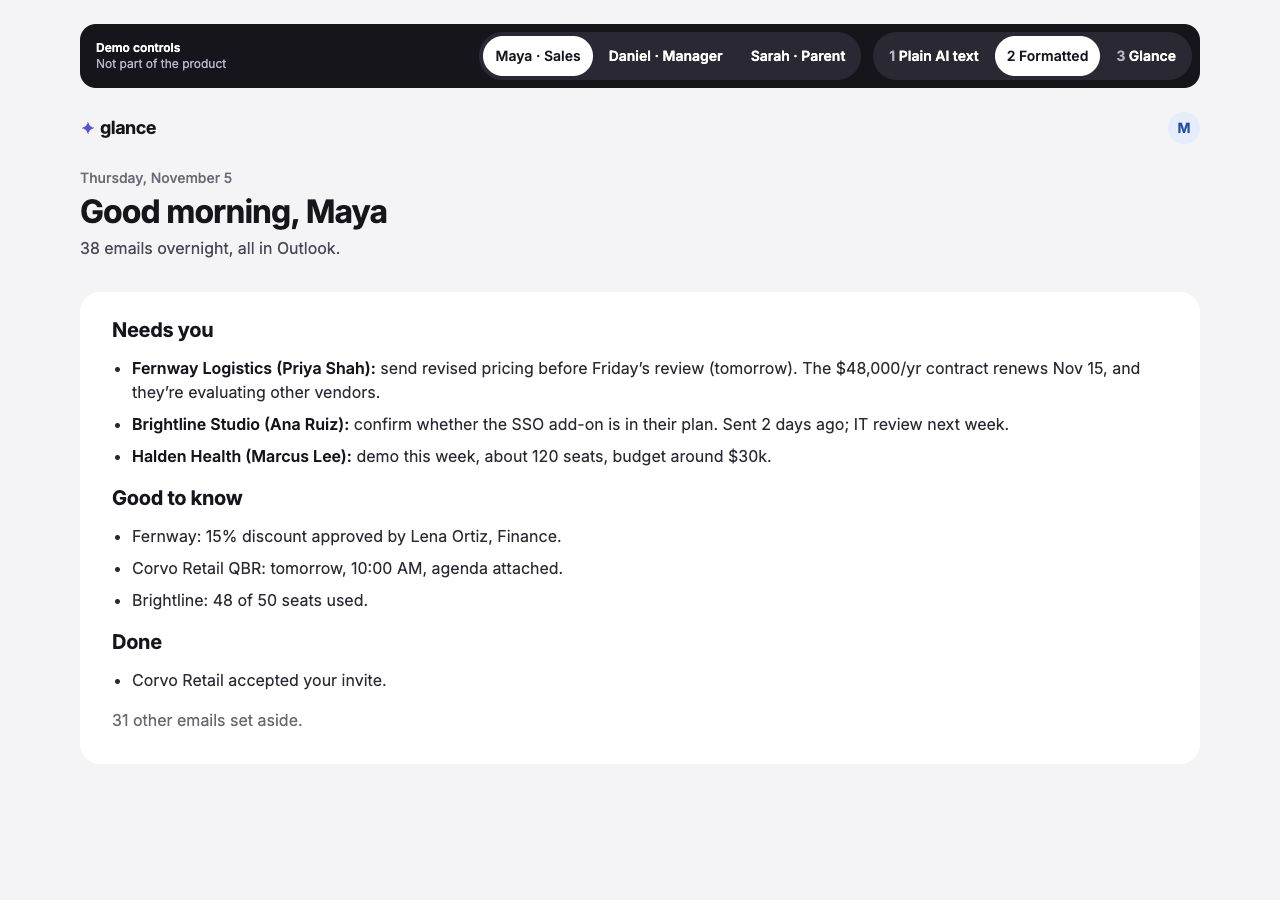
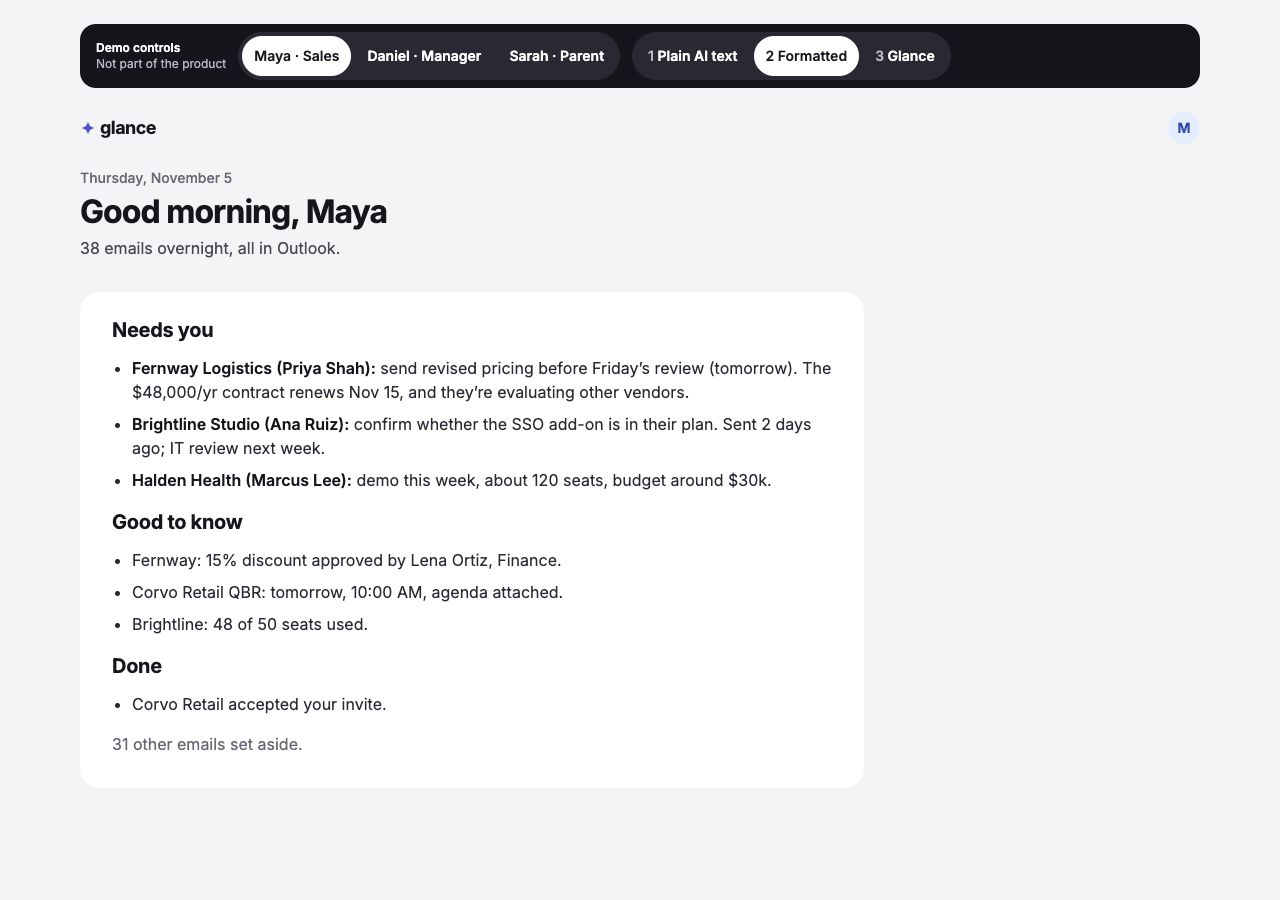
fix: apply approved demo states and responsive labels

diff --git a/src/demo/DemoBar.tsx b/src/demo/DemoBar.tsx
@@ -2,6 +2,7 @@ import { useId, useRef, useState, type ReactNode } from 'react';
 import type { PersonaId } from '../data';
 import { useDesktopLayout } from '../design-system/components/useDesktopLayout';
 import type { DemoLevel } from './DemoApp';
+import { usePhoneLabels } from './usePhoneLabels';
 import styles from './DemoBar.module.css';
 
 interface DemoBarProps {
@@ -12,14 +13,14 @@ interface DemoBarProps {
   extraControls?: ReactNode;
 }
 const personas = [
-  { id: 'maya', label: 'Maya · Sales' },
-  { id: 'daniel', label: 'Daniel · Manager' },
-  { id: 'sarah', label: 'Sarah · Parent' },
+  { id: 'maya', label: 'Maya · Sales', shortLabel: 'Maya' },
+  { id: 'daniel', label: 'Daniel · Manager', shortLabel: 'Daniel' },
+  { id: 'sarah', label: 'Sarah · Parent', shortLabel: 'Sarah' },
 ] as const;
 const levels = [
-  { value: 1, label: 'Plain AI text' },
-  { value: 2, label: 'Formatted' },
-  { value: 3, label: 'Glance' },
+  { value: 1, label: 'Plain AI text', shortLabel: 'Plain' },
+  { value: 2, label: 'Formatted', shortLabel: 'Formatted' },
+  { value: 3, label: 'Glance', shortLabel: 'Glance' },
 ] as const;
 
 export function DemoBar({
@@ -30,13 +31,18 @@ export function DemoBar({
   extraControls,
 }: DemoBarProps) {
   const desktop = useDesktopLayout();
+  const phone = usePhoneLabels();
   const [expanded, setExpanded] = useState(false);
   const id = useId();
   const trigger = useRef<HTMLButtonElement>(null);
   return (
     <aside
       aria-label="Demo controls"
-      className={[styles.shell, desktop && styles.desktop]
+      className={[
+        styles.shell,
+        desktop && styles.desktop,
+        phone && styles.phone,
+      ]
         .filter(Boolean)
         .join(' ')}
     >
@@ -77,11 +83,12 @@ export function DemoBar({
                 <button
                   key={persona.id}
                   type="button"
+                  aria-label={persona.label}
                   aria-pressed={personaId === persona.id}
                   className={styles.choice}
                   onClick={() => onPersonaChange(persona.id)}
                 >
-                  {persona.label}
+                  {phone ? persona.shortLabel : persona.label}
                 </button>
               ))}
             </div>
@@ -90,12 +97,13 @@ export function DemoBar({
                 <button
                   key={item.value}
                   type="button"
+                  aria-label={item.value + ' ' + item.label}
                   aria-pressed={level === item.value}
                   className={styles.choice}
                   onClick={() => onLevelChange(item.value)}
                 >
                   <span className={styles.number}>{item.value}</span>
-                  {' ' + item.label}
+                  {' ' + (phone ? item.shortLabel : item.label)}
                 </button>
               ))}
             </div>

diff --git a/src/demo/DemoBar.module.css b/src/demo/DemoBar.module.css
@@ -25,9 +25,11 @@
   flex-direction: column;
   gap: var(--space-12);
   padding: var(--space-12) var(--space-8) var(--space-8);
+  animation: panelEnter var(--duration-enter) var(--ease-standard) both;
 }
 .desktop .content {
   display: contents;
+  animation: none;
 }
 .caption {
   display: flex;
@@ -40,9 +42,6 @@
 }
 .caption span {
   color: var(--color-demo-muted);
-}
-.desktop .caption {
-  margin-inline-end: auto;
 }
 .group {
   display: flex;
@@ -74,6 +73,9 @@
 .choice:not([aria-pressed='true']):hover {
   background: var(--color-demo-control-hover);
 }
+.choice:not([aria-pressed='true']):active {
+  background: var(--color-demo-control-pressed);
+}
 .choice[aria-pressed='true'] {
   background: var(--color-demo-text);
   color: var(--color-demo-bg);
@@ -94,8 +96,31 @@
   min-block-size: var(--size-touch);
   background: var(--color-demo-control);
 }
+.desktop .extra {
+  margin-inline-start: auto;
+}
+.phone .choice {
+  flex: 1 0 auto;
+  padding-inline: var(--space-8);
+  white-space: nowrap;
+}
 .extra {
   display: flex;
   flex-wrap: wrap;
   gap: var(--space-8);
+}
+@keyframes panelEnter {
+  from {
+    opacity: 0;
+    transform: translateY(calc(-1 * var(--space-4)));
+  }
+  to {
+    opacity: 1;
+    transform: translateY(0);
+  }
+}
+@media (prefers-reduced-motion: reduce) {
+  .content {
+    animation: none;
+  }
 }

diff --git a/src/demo/usePhoneLabels.ts b/src/demo/usePhoneLabels.ts
@@ -1,0 +1,18 @@
+import { useSyncExternalStore } from 'react';
+
+// The pattern specification defines phone as the band below 600 pixels.
+const phone =
+  typeof window === 'undefined'
+    ? undefined
+    : window.matchMedia('(width < 600px)');
+function subscribe(notify: () => void) {
+  phone?.addEventListener('change', notify);
+  return () => phone?.removeEventListener('change', notify);
+}
+export function usePhoneLabels() {
+  return useSyncExternalStore(
+    subscribe,
+    () => phone?.matches ?? false,
+    () => false,
+  );
+}

diff --git a/src/design-system/tokens/tokens.css b/src/design-system/tokens/tokens.css
@@ -84,6 +84,7 @@
   --color-demo-bg: #16151C;
   --color-demo-control: #2A2833;
   --color-demo-control-hover: #36343F;
+  --color-demo-control-pressed: #42404D;
   --color-demo-text: #FFFFFF;
   --color-demo-muted: #B9B6C8;
 
@@ -172,6 +173,7 @@
   --gutter: 16px;                   /* phone */
   --content-max: 1120px;
   --content-narrow: 640px;
+  --content-reading: 784px;
   --column-list: 416px;             /* desktop list column */
   --gap-section: 20px;              /* phone */
   --gap-column: 32px;

diff --git a/src/demo/DemoApp.stories.tsx b/src/demo/DemoApp.stories.tsx
@@ -64,6 +64,15 @@ export const Hover: Story = {
   },
   play: openControls,
 };
+export const Pressed: Story = {
+  parameters: {
+    pseudo: {
+      hover: '[aria-label="Demo persona"] button:nth-child(2)',
+      active: '[aria-label="Demo persona"] button:nth-child(2)',
+    },
+  },
+  play: openControls,
+};
 export const FocusVisible: Story = {
   parameters: {
     pseudo: {

diff --git a/src/demo/TextLevels.module.css b/src/demo/TextLevels.module.css
@@ -2,6 +2,8 @@
   display: flex;
   flex-direction: column;
   min-inline-size: 0;
+  inline-size: 100%;
+  max-inline-size: var(--content-reading);
   padding: var(--space-20);
   border-radius: var(--radius-card);
   background: var(--color-surface);

diff --git a/docs/design-system.md b/docs/design-system.md
@@ -88,6 +88,8 @@ Rows and content that appear (a new BriefRow, a DoneRow, an Ask answer, rows rev
 | `--size-handle-width` | `36px` | Sheet handle | 08 |
 | `--size-handle-height` | `4px` | Sheet handle | 08 |
 | `--color-demo-control-hover` | `#36343F` (both themes) | Demo bar control hover | 11 |
+| `--color-demo-control-pressed` | `#42404D` (both themes) | Unselected demo control press | 11 |
+| `--content-reading` | `784px` | L1/L2 card outer maximum width (720 text plus 32 padding per side on desktop) | 11 |
 | `--duration-shimmer` | `1600ms` (no shimmer under reduced motion) | Skeleton shimmer | 13 |
 
 Each issue adds its own tokens to `tokens.css`; this table says where every value comes from.
@@ -463,7 +465,13 @@ A scene card holds **only facts from the email**, laid out by the email's struct
 | Quiet hours        | Phone, evening: the greeting changes (“Good evening, Daniel”), the coverage line says which inbox is shown (“Personal inbox only.”), a moon label says until when, and a calm card says what is waiting with “Show work email anyway” (text button). Good to know and Set aside show only allowed accounts. |
 | Overload           | Needs you shows what fits one screen (phone: top 4), then “Show 8 more, ranked the same way”; the revealed rows enter with the enter motion and the button is removed. Good to know and Set aside collapse into rows.                                                                                                                                                                |
 | L1 / L2 / L3       | **Demo only.** The same facts as a paragraph, as formatted text, and as components.                                                                                                                                                                                                                         |
-| Demo bar           | **Demo only.** Dark bar in both themes, built from `--color-demo-*` tokens: persona switch, level switch, theme switch (System · Light · Dark), “Simulate reply to {sender}”. Controls hover with `--color-demo-control-hover`. On phone, a “Demo” button opens the same controls in a panel that drops down under the bar (not the product's sheet). Never styled like the product.                                                                                                                                                                                          |
+| Demo bar           | **Demo only.** Dark bar in both themes, built from `--color-demo-*` tokens: persona switch, level switch, theme switch (System · Light · Dark), “Simulate reply to {sender}”. Unselected controls hover with `--color-demo-control-hover` and press with `--color-demo-control-pressed`; selected controls retain the demo-text fill and demo-bg text. On phone, a “Demo” button opens the same controls in a panel that drops down under the bar (not the product's sheet). Never styled like the product.                                                                                                                                                                                          |
+
+The demo control groups follow the “Demo controls” caption directly on desktop, with the right end available for later reply simulation and theme controls. The L1 and L2 cards have a `--content-reading` outer maximum width.
+
+Below 600 px, visible persona labels are “Maya”, “Daniel”, and “Sarah”; level labels are “1 Plain”, “2 Formatted”, and “3 Glance”. From 600 px upward, the full labels remain visible. Accessible button names always retain the full persona/role and level labels.
+
+The narrow demo panel opens with `--duration-enter`, moving downward by `--space-4` with `--ease-standard`. Reduced motion shows the final state immediately. Closing uses the existing toggle or Escape.
 
 ---
 
